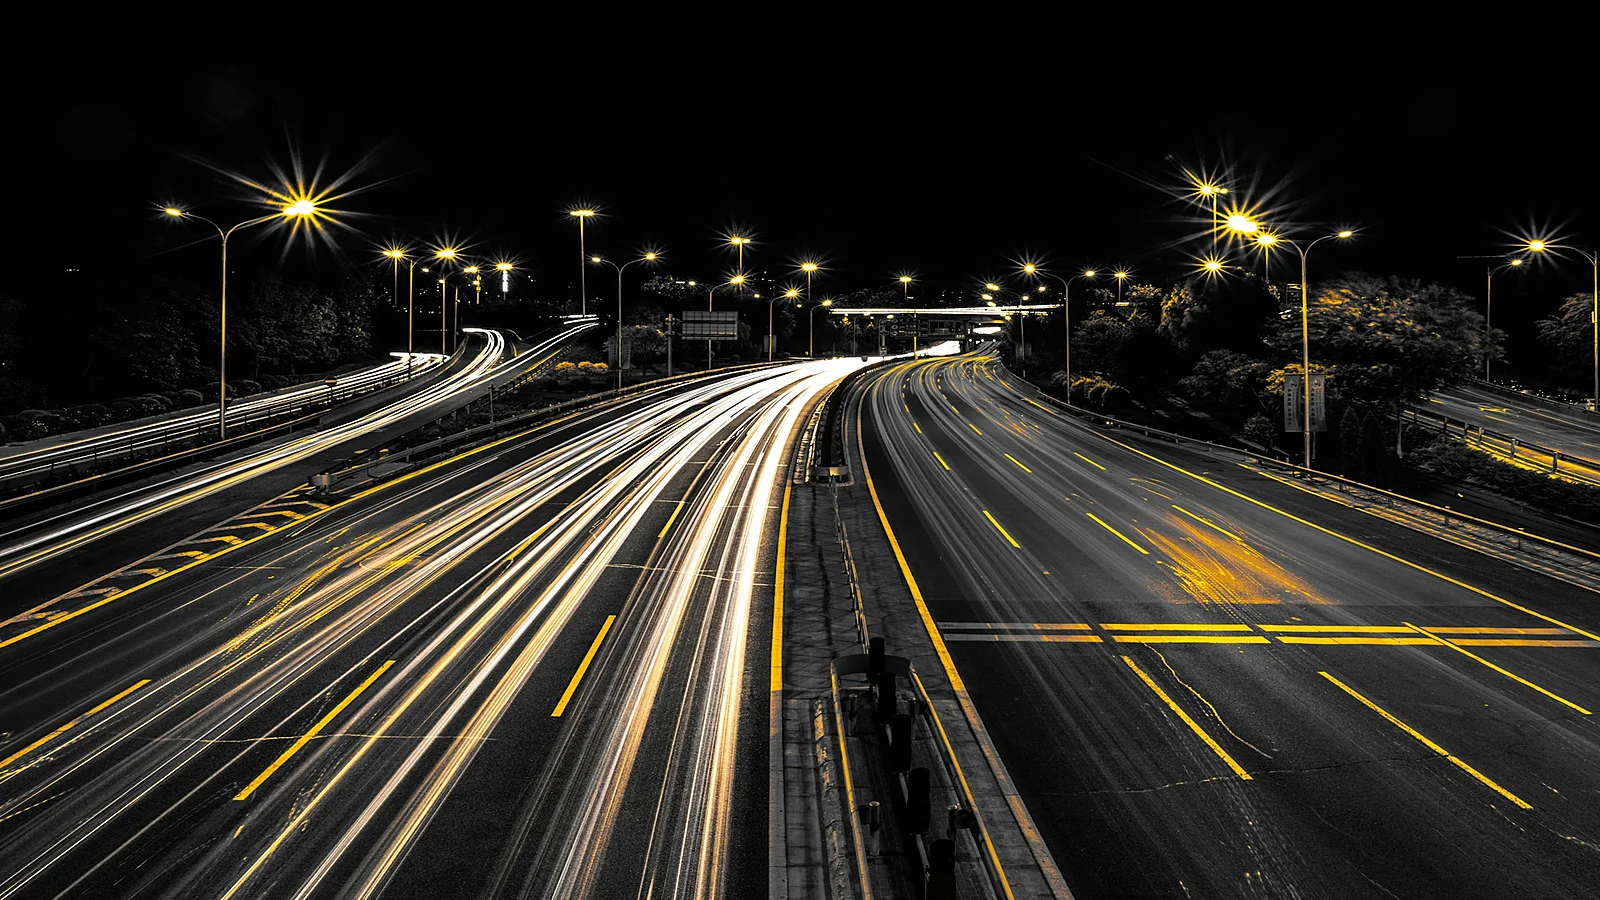
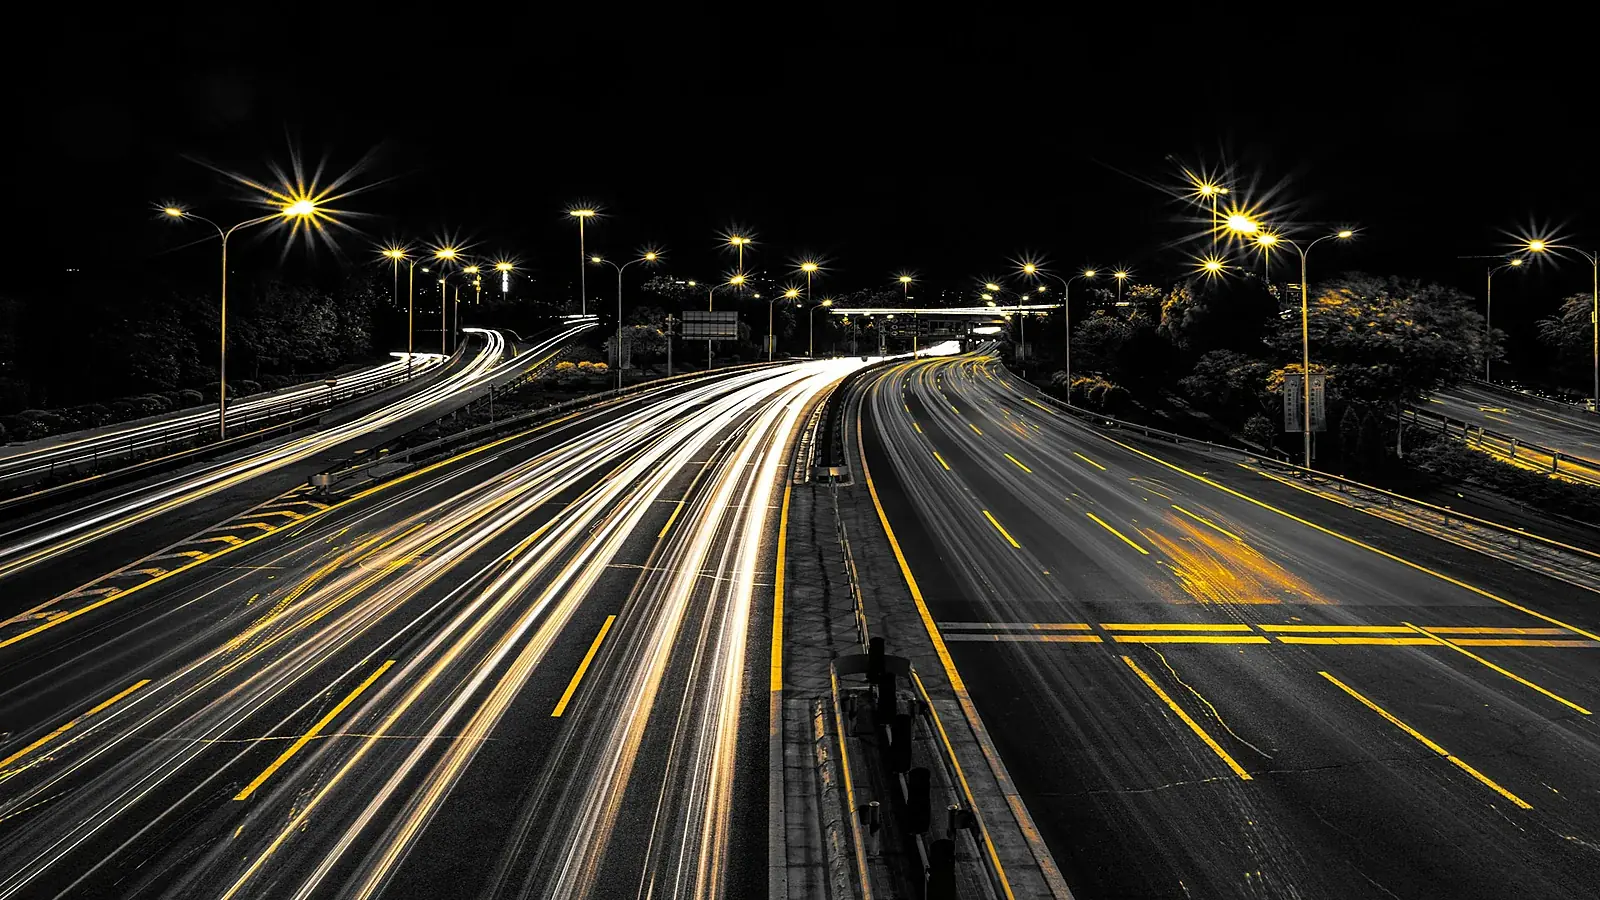
perf: mejorar rendimiento, responsive y accesibilidad
- Se comprimieron las imagenes a webp
- Se mejoro el codigo para responsive con respecto a imagenes
- Se idento el codigo
- Se modificaron estilos para mejorar la accesibilidad del usuario

diff --git a/index.html b/index.html
@@ -4,7 +4,8 @@
 <head>
     <meta charset="UTF-8">
     <meta name="viewport" content="width=device-width, initial-scale=1.0">
-    <meta name="description" content="SERVYRE - Líderes en infraestructura vial en México. Especialistas en señalización, semaforización, mantenimiento vial y sistemas inteligentes de transporte. Más de 50 años de experiencia.">
+    <meta name="description"
+        content="SERVYRE - Líderes en infraestructura vial en México. Especialistas en señalización, semaforización, mantenimiento vial y sistemas inteligentes de transporte. Más de 50 años de experiencia.">
     <title>SERVYRE - Infraestructura Vial</title>
     <link rel="stylesheet" href="css/style.css">
     <!-- Fonts -->
@@ -43,6 +44,11 @@
 
     <!-- Hero Section -->
     <section id="inicio" class="hero">
+        <picture class="hero-picture">
+            <source media="(max-width: 640px)" srcset="img/hero-bg-mobile.webp">
+            <source media="(max-width: 1024px)" srcset="img/hero-bg-tablet.webp">
+            <img src="img/hero-bg.webp" alt="background-carretera" class="hero-bg-image">
+        </picture>
         <div class="container hero-content">
             <h1>Tu Primera Opción en Infraestructura Vial</h1>
             <p>Líderes en soluciones integrales de señalización, semaforización y mantenimiento vial. Garantizando
@@ -50,6 +56,9 @@
             <a href="#servicios" class="btn">Nuestros Servicios</a>
         </div>
     </section>
+
+    <!-- About Section -->
+
 
     <!-- About Section -->
     <main>
@@ -62,13 +71,11 @@
                             Especialistas en el área de proyectos de infraestructura vial, así como en el campo de
                             mantenimiento y conservación de los mismos innovando día con día.
                             Una de las empresas más importantes proveedora en el mercado de la ingeniería de tránsito a
-                            los
-                            gobiernos federales, estatales y municipales en México.
+                            los gobiernos federales, estatales y municipales en México.
                             En Grupo Servyre ofrecemos; Diseño, fabricación, suministro, colocación, mantenimiento y
                             software de nuestros servicios, sistemas y productos.</p>
                         <p>Oficina central se encuentra en México, CDMX, y las oficinas de representación en la
-                            República
-                            Mexicana</p>
+                            República Mexicana</p>
                         <a href="#contacto" class="btn">Contáctanos</a>
                     </div>
 
@@ -76,16 +83,33 @@
                     <div class="carousel-container">
                         <div class="carousel-wrapper">
                             <div class="carousel-slide active">
-                                <img src="img/carousel-1.jpg" alt="Trabajadores de Grupo Servyre" loading="lazy">
+                                <picture>
+                                    <source media="(max-width: 640px)" srcset="img/carousel-1-mobile.webp">
+                                    <source media="(max-width: 1024px)" srcset="img/carousel-1-tablet.webp">
+                                    <img src="img/carousel-1-desktop.webp" alt="Trabajadores de Grupo Servyre"
+                                        loading="lazy">
+                                </picture>
                             </div>
                             <div class="carousel-slide">
-                                <img src="img/carousel-2.jpg" alt="Infraestructura Vial" loading="lazy">
+                                <picture>
+                                    <source media="(max-width: 640px)" srcset="img/carousel-2-mobile.webp">
+                                    <source media="(max-width: 1024px)" srcset="img/carousel-2-tablet.webp">
+                                    <img src="img/carousel-2-desktop.webp" alt="Infraestructura Vial" loading="lazy">
+                                </picture>
                             </div>
                             <div class="carousel-slide">
-                                <img src="img/carousel-3.jpg" alt="Proyectos SERVYRE" loading="lazy">
+                                <picture>
+                                    <source media="(max-width: 640px)" srcset="img/carousel-3-mobile.webp">
+                                    <source media="(max-width: 1024px)" srcset="img/carousel-3-tablet.webp">
+                                    <img src="img/carousel-3-desktop.webp" alt="Proyectos SERVYRE" loading="lazy">
+                                </picture>
                             </div>
                             <div class="carousel-slide">
-                                <img src="img/carousel-4.jpg" alt="Señalización Vial" loading="lazy">
+                                <picture>
+                                    <source media="(max-width: 640px)" srcset="img/carousel-4-mobile.webp">
+                                    <source media="(max-width: 1024px)" srcset="img/carousel-4-tablet.webp">
+                                    <img src="img/carousel-4-desktop.webp" alt="Señalización Vial" loading="lazy">
+                                </picture>
                             </div>
                         </div>
 
@@ -109,12 +133,9 @@
             </div>
         </section>
 
-
-
-
         <!-- Mision, Vision, Valores Section -->
-        <div class="container">
-            <section class="mvv__component">
+        <section class="mvv__component">
+            <div class="container">
                 <div class="mvv__buttons">
                     <button class="mvv__button mvv__button--active" id="mision">Misión</button>
                     <button class="mvv__button" id="vision">Visión</button>
@@ -123,11 +144,10 @@
                 <div id="mvv__info">
                     <div class="mvv__text mvv__text--active" data-id="mision">
                         <p>La Misión de Grupo Servyre es la de satisfacer las necesidades de nuestros clientes,
-                            brindando en
-                            todo momento un valor agregado único que nos diferencie de nuestros competidores en el
-                            mercado y
-                            que nos permitan optimizar nuestro desempeño, para crear ambientes sanos, seguros y
-                            agradables.
+                            brindando en todo momento un valor agregado único que nos diferencie de nuestros
+                            competidores
+                            en el mercado y que nos permitan optimizar nuestro desempeño, para crear ambientes sanos,
+                            seguros y agradables.
                         </p>
                     </div>
                     <div class="mvv__text" data-id="vision">
@@ -148,8 +168,8 @@
                             Los resultados, como expresión de profesionalismo y responsabilidad.</p>
                     </div>
                 </div>
-            </section>
-        </div>
+            </div>
+        </section>
 
         <!-- Services Section -->
         <section id="servicios" class="services">
@@ -163,8 +183,7 @@
                         </div>
                         <h3>Infraestructura y Mantenimiento Vial</h3>
                         <p>Repavimentación, Bacheo, Alcantarillado, Estructuras Metálicas, Mantenimiento Urbano, Obra
-                            Civil,
-                            Guarniciones y Banquetas, Mantenimiento y Conservación.</p>
+                            Civil, Guarniciones y Banquetas, Mantenimiento y Conservación.</p>
                     </div>
                     <!-- Service 2 -->
                     <div class="service-card">
@@ -190,8 +209,7 @@
                         </div>
                         <h3>Limpieza Institucional Especializada</h3>
                         <p>Limpieza de Oficinas, Jardinería, Plomería, Electricidad, Pintura, Insumos de Limpieza,
-                            Jarcería.
-                        </p>
+                            Jarcería.</p>
                     </div>
                     <!-- Service 5 -->
                     <div class="service-card">
@@ -221,8 +239,7 @@
                     <div class="product-card product-card--tall">
                         <h3>(ITS) Sistemas Inteligentes de Transporte</h3>
                         <p>Software de Gestión de Tránsito, Fotomultas, VMS, Aforo Vehicular, ALPR, CCTV, Radares,
-                            Básculas
-                            Dinámicas, Telecomunicaciones, Detección de Incidentes y Dispositivos S.O.S.</p>
+                            Básculas Dinámicas, Telecomunicaciones, Detección de Incidentes y Dispositivos S.O.S.</p>
                     </div>
                     <div class="product-card">
                         <h3>Sistemas de Transporte Público</h3>

diff --git a/css/style.css b/css/style.css
@@ -156,20 +156,52 @@ nav {
 }
 
 /* Hero Section */
-
 .hero {
+    position: relative;
     height: 100vh;
     min-height: 600px;
-    background: linear-gradient(rgba(0, 0, 0, 0.5), rgba(0, 0, 0, 0.8)), url('../img/hero-bg.webp');
-    background-size: cover;
-    background-position: center;
-    background-attachment: fixed;
     display: flex;
     align-items: center;
     justify-content: center;
     text-align: center;
     color: var(--white);
     margin-bottom: 0;
+    overflow: hidden;
+}
+
+/* Picture y la imagen como background */
+.hero-picture {
+    position: absolute;
+    top: 0;
+    left: 0;
+    width: 100%;
+    height: 100%;
+    z-index: 0;
+}
+
+.hero-bg-image {
+    width: 100%;
+    height: 100%;
+    object-fit: cover;
+    filter: brightness(0.6);
+}
+
+/* Overlay oscuro encima de la imagen */
+.hero::before {
+    content: '';
+    position: absolute;
+    top: 0;
+    left: 0;
+    width: 100%;
+    height: 100%;
+    background: linear-gradient(rgba(0, 0, 0, 0.3), rgba(0, 0, 0, 0.6));
+    z-index: 1;
+}
+
+/* Contenido sobre todo */
+.hero-content {
+    position: relative;
+    z-index: 2;
 }
 
 .hero-content h1 {
@@ -189,7 +221,6 @@ nav {
     margin-right: auto;
     text-shadow: 1px 1px 3px rgba(0, 0, 0, 0.5);
 }
-
 
 /* About Section */
 
@@ -218,6 +249,19 @@ nav {
 
 
 /* Carousel Styles */
+
+/* Asegurar que picture funcione en el carousel */
+.carousel-slide picture {
+    width: 100%;
+    height: 100%;
+    display: block;
+}
+
+.carousel-slide picture img {
+    width: 100%;
+    height: 100%;
+    object-fit: cover;
+}
 .carousel-container {
     position: relative;
     width: 100%;
@@ -408,18 +452,25 @@ nav {
 
 
 /* Misión, Visión, Valores */
-
 .mvv__component {
-    max-width: 1200px;
     width: 100%;
-    margin: 60px auto;
-    padding: 0 20px;
+    padding: 60px 20px;
     display: flex;
     flex-direction: column;
     justify-content: center;
     align-items: center;
     gap: 30px;
 }
+
+.mvv__component .container {
+    max-width: 1200px;
+    width: 100%;
+    display: flex;
+    flex-direction: column;
+    align-items: center;
+    gap: 30px;
+}
+
 
 .mvv__buttons {
     display: flex;
